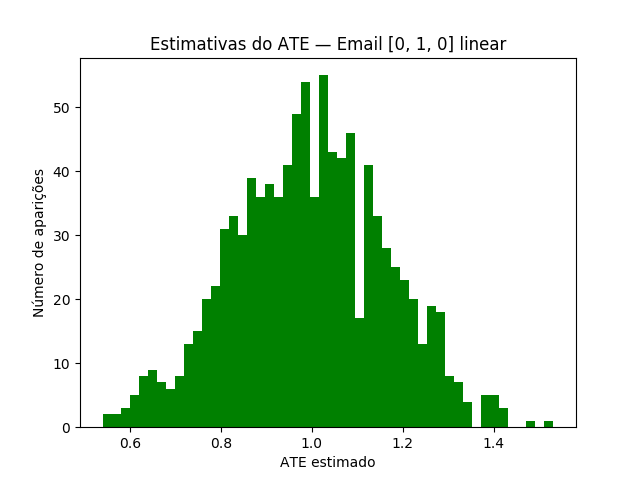
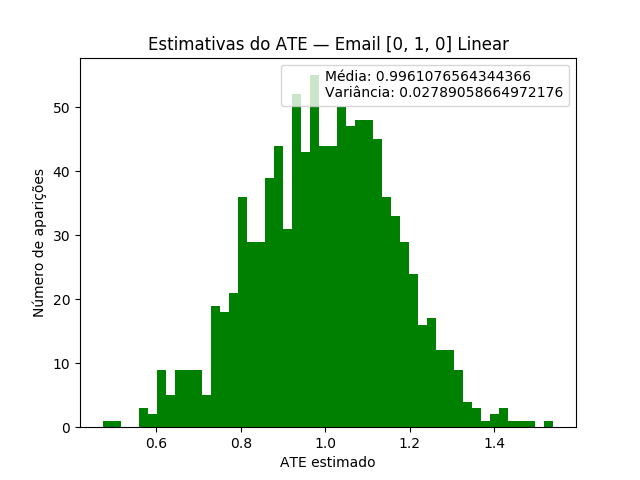
Histogramas e MSE teórico

diff --git a/mse.py b/mse.py
@@ -2,6 +2,7 @@ import funcs as f
 import numpy as np
 from sys import argv
 import matplotlib.pyplot as plt
+import matplotlib.patches as mpatches
 
 nome = "email-Eu-core"	  # Nome do Dataset
 g = f.get_graph(nome)     # Grafo
@@ -11,7 +12,8 @@ model = 3		          # Número do modelo da simulação
 
 #beta = [0, 0, 1]
 #beta = [0, 0.5, 0.5]
-beta = [0, 1, 0]
+#beta = [0, 1, 0]
+beta = [0, 1, 2]
 
 ins = [True, 0, True]     # Linear (True) e não Binário (False)
 
@@ -20,7 +22,7 @@ zvec = f.zfile_to_zvector(nome, trat)
 
 media = 0                 # Média da distribuição Normal
 var = 1                   # Variância da distribuição Normal
-est_model = 4
+est_model = 2
 
 predicoes = np.empty(rodadas)
 ATE = np.empty(rodadas)
@@ -34,19 +36,26 @@ for i in range(rodadas):
 
 	print("Rodada {} de {}".format(i+1, rodadas))
 
-fig = plt.figure()
+media = predicoes.mean()
+var = predicoes.var()
 
+fig = plt.figure()
 ax = fig.add_subplot(1,1,1,)
 n, bins, patches = ax.hist(predicoes, bins=50, histtype='bar')
 
 for patch in patches:
-    patch.set_facecolor('g')
+    patch.set_facecolor('y')
 
-plt.title('Estimativas do ATE — Email ' + str(beta) + ' Logit')
+vals = "Média: {}\nVariância: {}".format(media, var)
+handles, labels = ax.get_legend_handles_labels()
+handles.append(mpatches.Patch(color='none', label=vals))
+plt.legend(handles=handles)
+
+plt.title('Estimativas do ATE — Email ' + str(beta) + ' Linear Binário')
 plt.xlabel("ATE estimado")
 plt.ylabel("Número de aparições")
 plt.savefig("Imagens/Histograma Email " + str(beta) + " .png")
-plt.show()
+#plt.show()
 
 # mse = ((predicoes - ATE) ** 2).mean()
 # print(mse)
